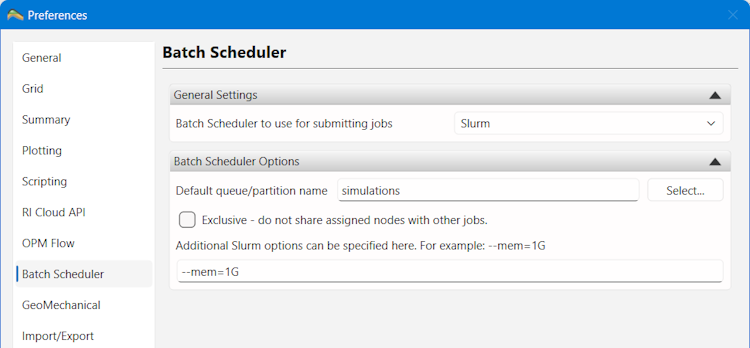
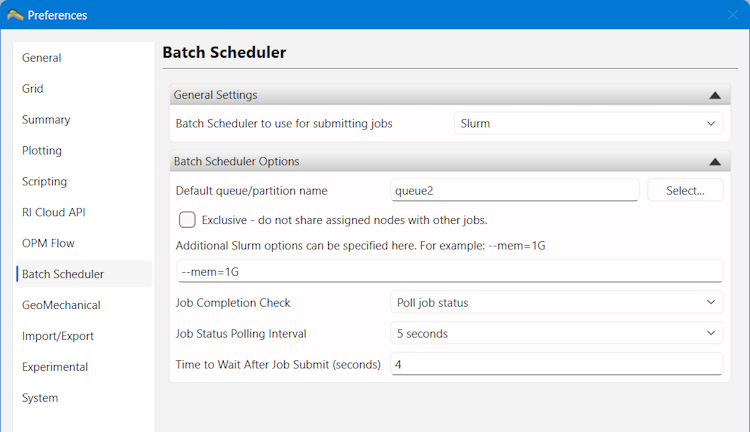
Modify batch documentation based on latest code changes

diff --git a/content/opm-flow-integration/RunningBatchScheduler.md b/content/opm-flow-integration/RunningBatchScheduler.md
@@ -31,7 +31,17 @@ Under *Batch Scheduler Options* you have the following options for Slurm:
 
 **Exclusive** - turn this option on to tell Slurm that you want exclusive access to the cluster nodes your jobs are assigned. No other jobs will be allowed to run on the nodes used to run your jobs even if there are available resources. Note that not all cluster configurations allows you to specify this.
 
-**Additional Slurm options** - here you can specify additional options that are required for your jobs, i.e. accounting information or memory requirements. The text entered here will be written without modification to a single *#SBATCH* line in the job launch script.
+**Additional Slurm options** - here you can specify additional options that are required for your jobs, i.e. accounting information or memory requirements. The text entered here will be written without 
+modification to a single *#SBATCH* line in the job launch script.
+
+**Job Completion Check** - ResInsight could use two different methods to check if a submitted job has completed:
+1. *Poll job status* - Poll the batch scheduler job list to see if the job is still running.
+2. *Blocking wait on submit command* - ResInsight will tell the batch scheduler submit job command to wait until the submitted job has completed before returning to ResInsight.
+
+**Job Status Polling Interval** - Tells ResInsight how often it should retrieve the list of running jobs from the batch scheduler. The list retrieved will be used both for checking status of jobs (in case *Poll job status* is selected) and updating the Batch Queue Monitor view if enabled. 
+
+**Time to Wait After Job Submit** - If *Poll job status* is selected, ResInsight will wait at least this many seconds before looking at the job status list retrieved from the batch scheduler. This is to make sure submitted jobs have time to show up in the job status list before ResInsight starts using the information to determine when a job is completed.
+
 
 ### LSF
 
@@ -46,6 +56,8 @@ Under *Batch Scheduler Options* you have the following options for LSF:
 **Exclusive** - turn this option on to tell LSF that you want exclusive access to the cluster nodes your jobs are assigned. No other jobs will be allowed to run on the nodes used to run your jobs even if there are available resources. Note that not all cluster configurations allows you to specify this.
 
 **Additional LSF options** - here you can specify additional options that are required for your jobs, i.e. accounting information or memory requirements. The text entered here will be written without modification to a single *#BSUB* line in the job launch script.
+
+The remaining options are shared with Slurm (see above).
 
 ## Running OPM Flow simulation jobs
 
@@ -69,10 +81,8 @@ A *Batch Queue Monitor* window is available in ResInsight. It allows you to moni
 
 The monitor window is hidden by default, but can be shown by going to the main 3D Window's *Windows* menu and choosing *Windows -> Batch Queue Monitor*. The monitor will show up as a floating window by default, but can be docked at a suitable location in the main 3D Window.
 
-**Enable Job Monitor** - Enable this to start monitoring. Resinsight will run *squeue* (Slurm) or *bjobs* (LSF) at the selected interval to get a list of your jobs from the cluster
+**Enable Job Monitor** - Enable this to start monitoring. Resinsight will run *squeue* (Slurm) or *bjobs* (LSF) at the interval set in preferences to get a list of your jobs from the cluster.
 
 **Only Show ResInsight Jobs** - Enable this to only show jobs that start with the ResInsight prefix "RI_".
 
-**Refresh Interval** - Choose how often ResInsight should refresh the job information. You can choose between 5, 10 and 30 seconds. On a busy cluster, it is recommended to not refresh the job information too often.
-
-Note: it is recommended to stop the job monitor when not needed, as it could put some additional, unnecessary load on the cluster system.
+Note: it is recommended to disable the job monitor when not needed, as it could put some additional, unnecessary load on the cluster system.
